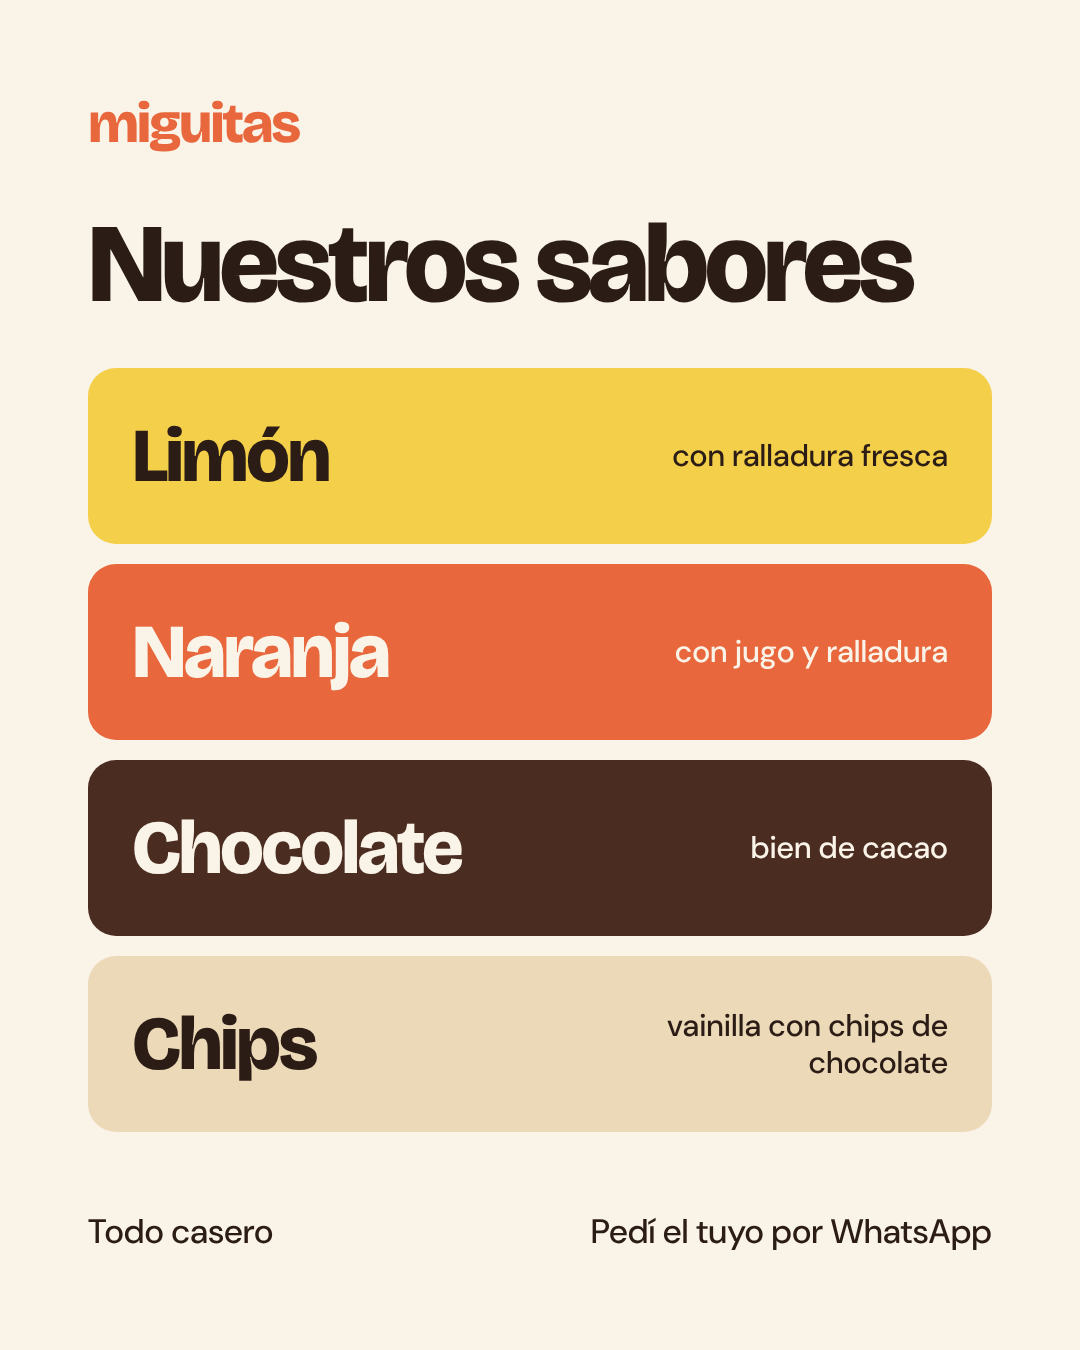
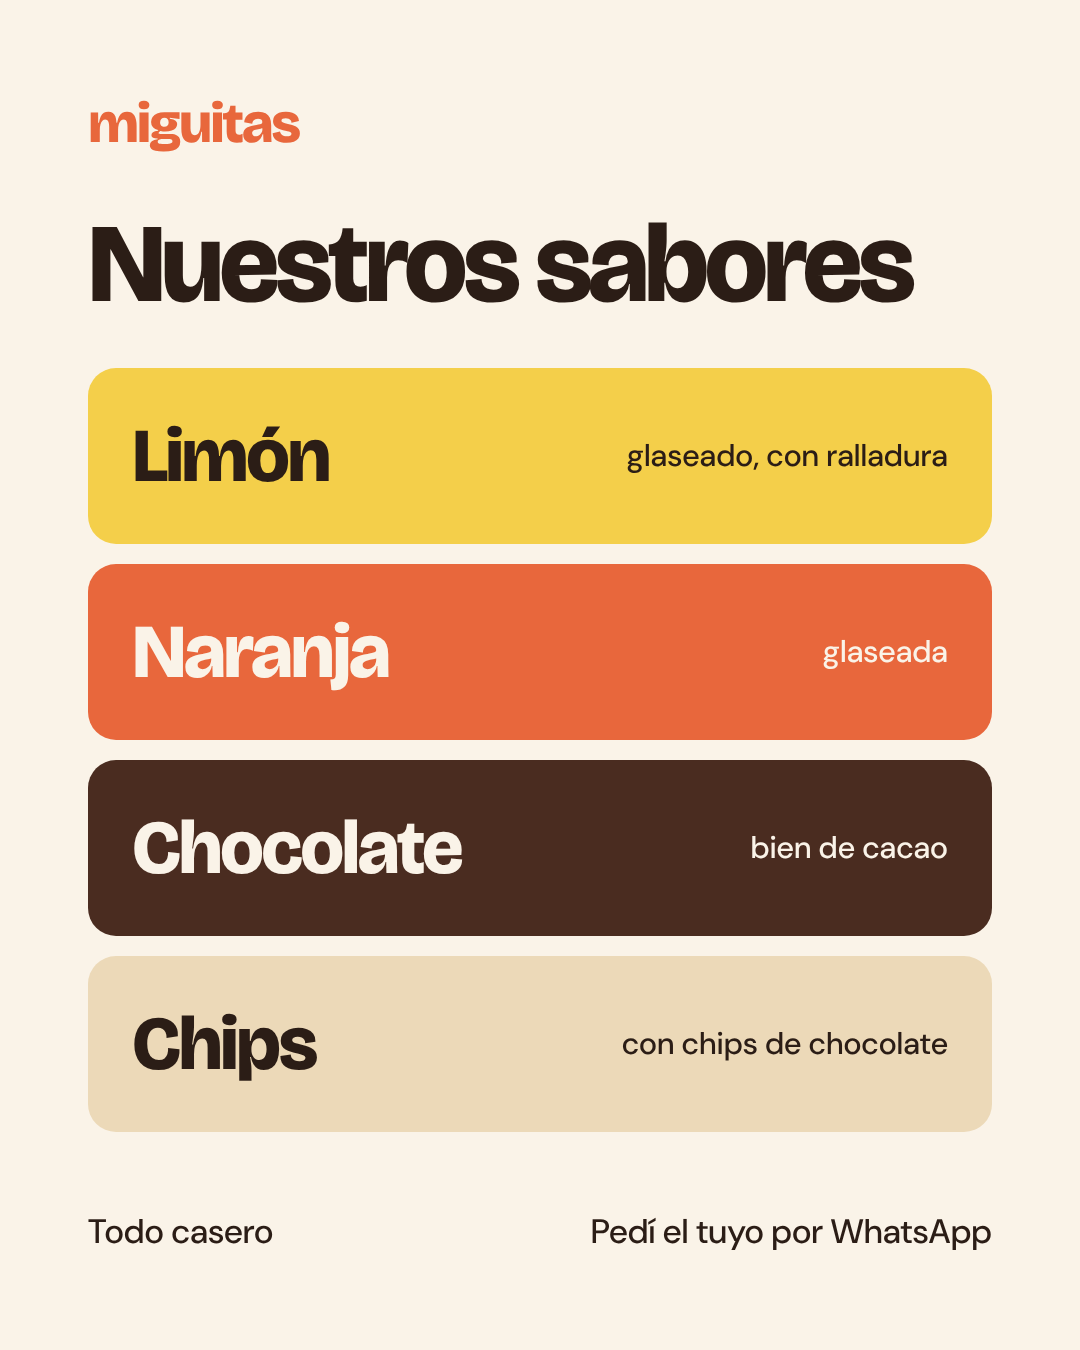
Instagram: primer post con fotos en la portada y la segunda placa
Claude-Session: https://claude.ai/code/session_01E37741rvoTVLUcn2uQcmpN

diff --git a/instagram/piezas.html b/instagram/piezas.html
@@ -54,6 +54,20 @@ body{background:#ddd;display:flex;flex-wrap:wrap;gap:40px;padding:40px;font-fami
 #c-cierre h1{font-family:var(--display);font-weight:800;font-size:190px;line-height:.9;letter-spacing:-.05em;margin-top:150px}
 #c-cierre p{font-size:50px;font-weight:500;line-height:1.25;margin-top:48px}
 #c-cierre .btn{align-self:flex-start;margin-top:56px;background:var(--cacao);color:var(--crema);font-family:var(--display);font-weight:700;font-size:50px;padding:26px 48px;border-radius:999px}
+
+/* Placas con foto a pantalla completa */
+.confoto{color:var(--crema);background-size:cover}
+.confoto::before{content:"";position:absolute;inset:0}
+.confoto>*{position:relative}
+.confoto h1{font-family:var(--display);font-weight:800;letter-spacing:-.045em;line-height:.92}
+#f-portada{background-image:url(fotos/limon-rodajas.jpg);background-position:50% 30%}
+#f-portada::before{background:linear-gradient(180deg,rgba(43,29,22,.78) 0%,rgba(43,29,22,.5) 22%,rgba(43,29,22,0) 40%,rgba(43,29,22,0) 82%,rgba(43,29,22,.6) 100%)}
+#f-portada h1{font-size:108px;margin-top:36px;max-width:700px}
+#f-todos{background-image:url(fotos/todos-los-sabores.jpg);background-position:50% 50%}
+#f-todos::before{background:linear-gradient(180deg,rgba(43,29,22,0) 45%,rgba(43,29,22,.88) 100%)}
+#f-todos h1{font-size:128px;margin-top:auto}
+#f-todos p{font-size:42px;font-weight:500;margin:22px 0 40px}
+#f-todos .pie{margin-top:0}
 </style></head><body>
 
 <div class="pieza" id="perfil">
@@ -89,10 +103,10 @@ body{background:#ddd;display:flex;flex-wrap:wrap;gap:40px;padding:40px;font-fami
 <div class="pieza post" id="p-sabores">
   <div class="marca chica" style="color:var(--mandarina)">miguitas</div>
   <h1>Nuestros sabores</h1>
-  <div class="sabor" style="background:var(--limon)"><b>Limón</b><span>con ralladura fresca</span></div>
-  <div class="sabor" style="background:var(--mandarina);color:var(--crema)"><b>Naranja</b><span>con jugo y ralladura</span></div>
+  <div class="sabor" style="background:var(--limon)"><b>Limón</b><span>glaseado, con ralladura</span></div>
+  <div class="sabor" style="background:var(--mandarina);color:var(--crema)"><b>Naranja</b><span>glaseada</span></div>
   <div class="sabor" style="background:var(--choco);color:var(--crema)"><b>Chocolate</b><span>bien de cacao</span></div>
-  <div class="sabor" style="background:var(--chips)"><b>Chips</b><span>vainilla con chips de chocolate</span></div>
+  <div class="sabor" style="background:var(--chips)"><b>Chips</b><span>con chips de chocolate</span></div>
   <div class="pie"><span>Todo casero</span><span>Pedí el tuyo por WhatsApp</span></div>
 </div>
 
@@ -131,5 +145,17 @@ body{background:#ddd;display:flex;flex-wrap:wrap;gap:40px;padding:40px;font-fami
   <p>Escribinos por WhatsApp y coordinamos.</p>
   <div class="btn">Link en el perfil</div>
   <div class="pie"><span>San Martín, Mendoza</span><span>@_miguitass</span></div>
+</div>
+
+<div class="pieza post confoto" id="f-portada">
+  <div class="marca chica">miguitas</div>
+  <h1>Hola, somos Miguitas.</h1>
+  <div class="pie"><span>Budines caseros · San Martín, Mendoza</span><span>Deslizá →</span></div>
+</div>
+
+<div class="pieza post confoto" id="f-todos">
+  <h1>Todo casero.</h1>
+  <p>Horneados en casa, para tu encargo.</p>
+  <div class="pie"><span>@_miguitass</span><span>Deslizá →</span></div>
 </div>
 </body></html>

diff --git a/instagram/exportar.js b/instagram/exportar.js
@@ -13,7 +13,7 @@ const path = require('path');
   for (const [id, n] of Object.entries(nombres))
     await p.locator('#' + id).screenshot({ path: path.join(__dirname, 'export', n + '.png') });
   // Primer post: carrusel de 5 placas, en el orden en que se suben
-  const carrusel = ['c-portada', 'c-casero', 'p-sabores', 'p-pasos', 'c-cierre'];
+  const carrusel = ['f-portada', 'f-todos', 'p-sabores', 'p-pasos', 'c-cierre'];
   for (const [i, id] of carrusel.entries())
     await p.locator('#' + id).screenshot({ path: path.join(__dirname, 'export', 'primer-post', (i + 1) + '.png') });
   console.log('fuentes:', await p.evaluate(() => [...document.fonts].filter(f => f.status === 'loaded').length));
